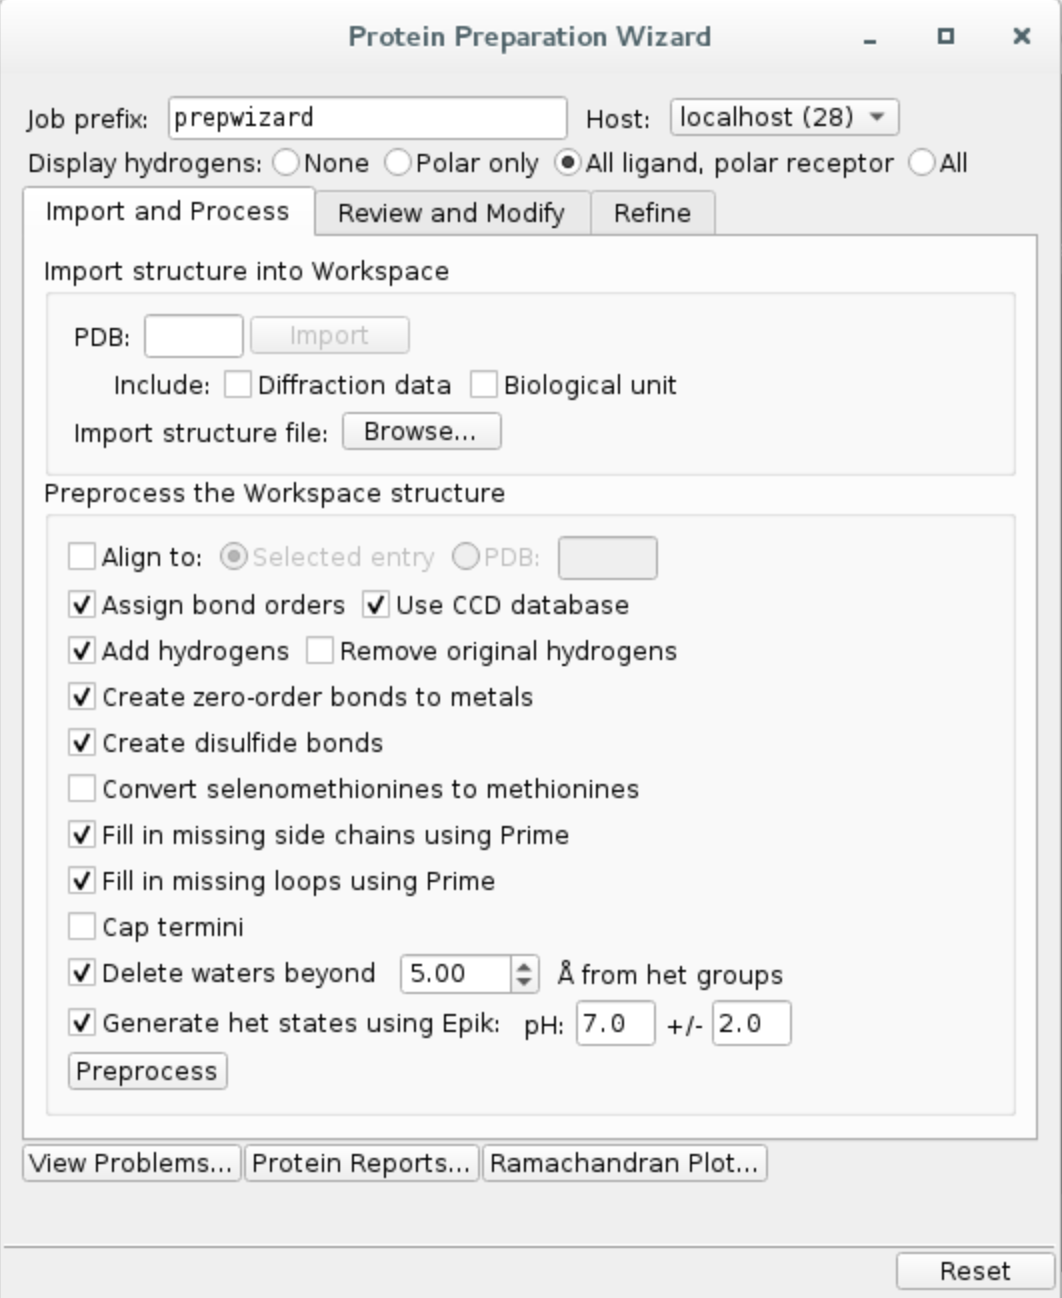
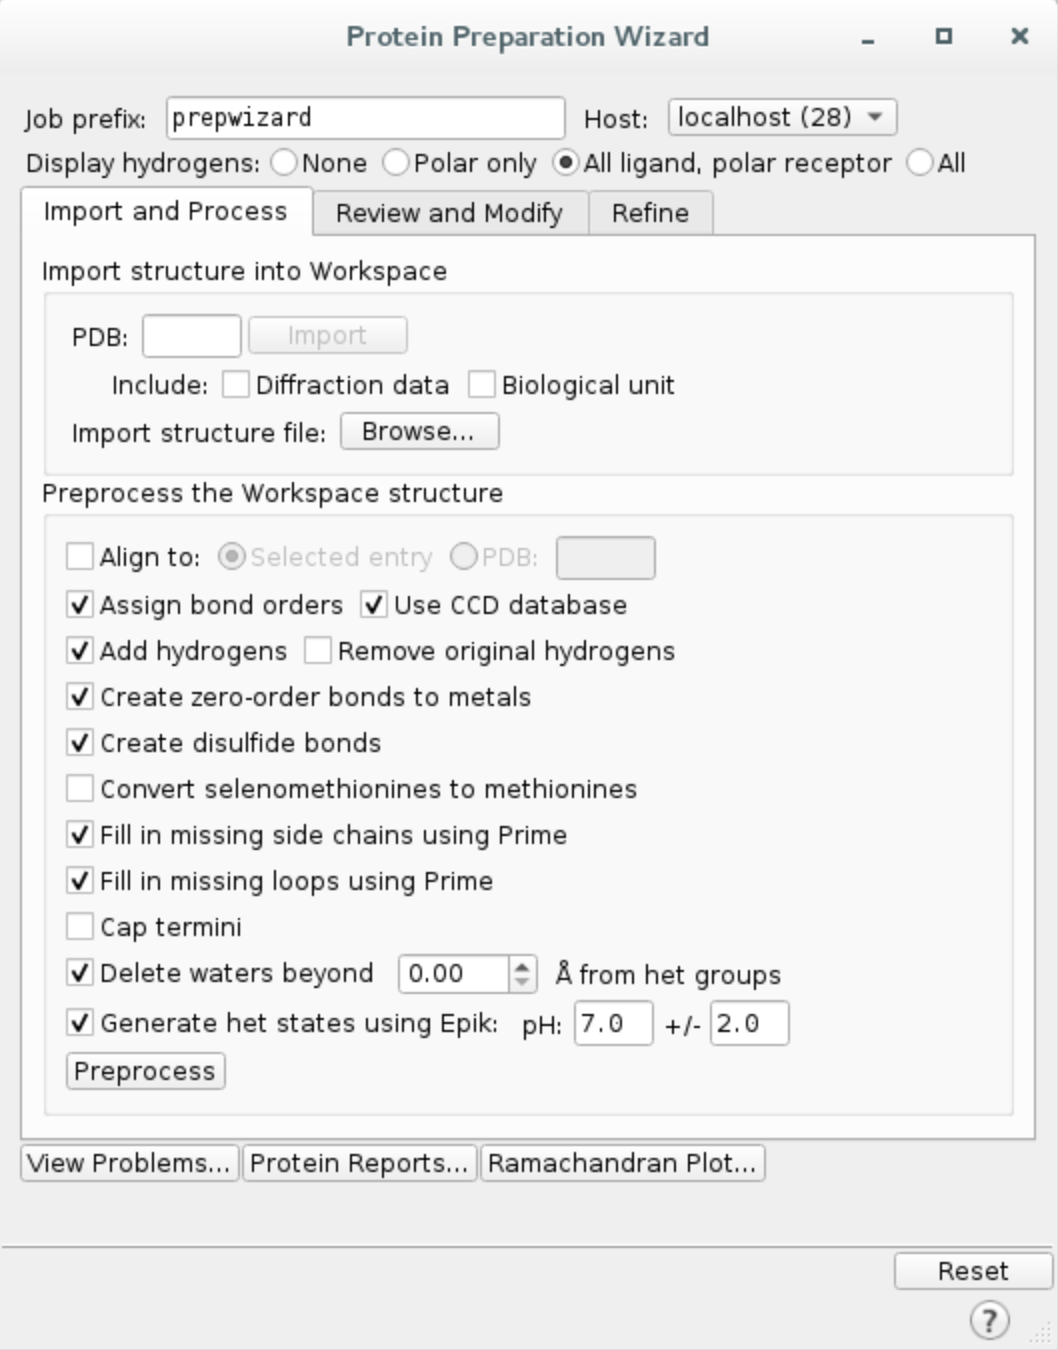
Final PPI tutorial

diff --git a/docs/build_docs/source/tutorials/ppi.rst b/docs/build_docs/source/tutorials/ppi.rst
@@ -1,4 +1,4 @@
-Protein-protein interaction tutorial (unfinished)
+Protein-protein interaction tutorial
 =================================================
 In this tutorial we will set up a **protein-protein interaction** simulation aimed to elucidate a binding pocket of a bromodomain-histone
 inhibitor. We will be using bromodomain-containing protein 9/histone 4 X-ray structure (PDB code 4YY6) and
@@ -18,9 +18,11 @@ and click ``Download``. The protein structure should appear in your workspace.
 
 b. **Preprocess the protein** using Protein Preparation Wizard. Click on ``Tasks`` and search ``Protein Preparation Wizard``.
 Check the following options and hit ``Preprocess``.
-    - Fill in missing side chain using Prime
-    - Fill in missing loops using Prime
-    - Delete waters beyond 5.0 Å from het groups
+    - Fill in missing side chain using Prime*
+    - Fill in missing loops using Prime*
+    - Delete waters beyond 0.0 Å from het groups (i.e. all waters in the system)
+
+\*If you do not have Prime license, you can skip those steps.
 
 .. image:: ../img/allosteric_tutorial_1b.png
   :width: 400
@@ -64,7 +66,8 @@ b. **Extract the ligand**
   :align: center
 
 c. **Pick atom** to track progress. One of the metrics we use to follow the simulation is the distance between two
-selected atoms. In this case, we will pick ligand atom ``Z:1123:C13``, then track the distance between that and the centre of interface.
+selected atoms. In this case, we will pick ligand atom ``Z:1123:C13``, then track the distance between that and the centre of interface. It will help us assess whether
+the ligand is forming expected interactions at the protein-protein interface or elsewhere.
 
 d. **Export the ligand** by clicking on ``File -> Export structures...`` and save all workspace atoms as ``ligand.pdb``
 in your working directory.
